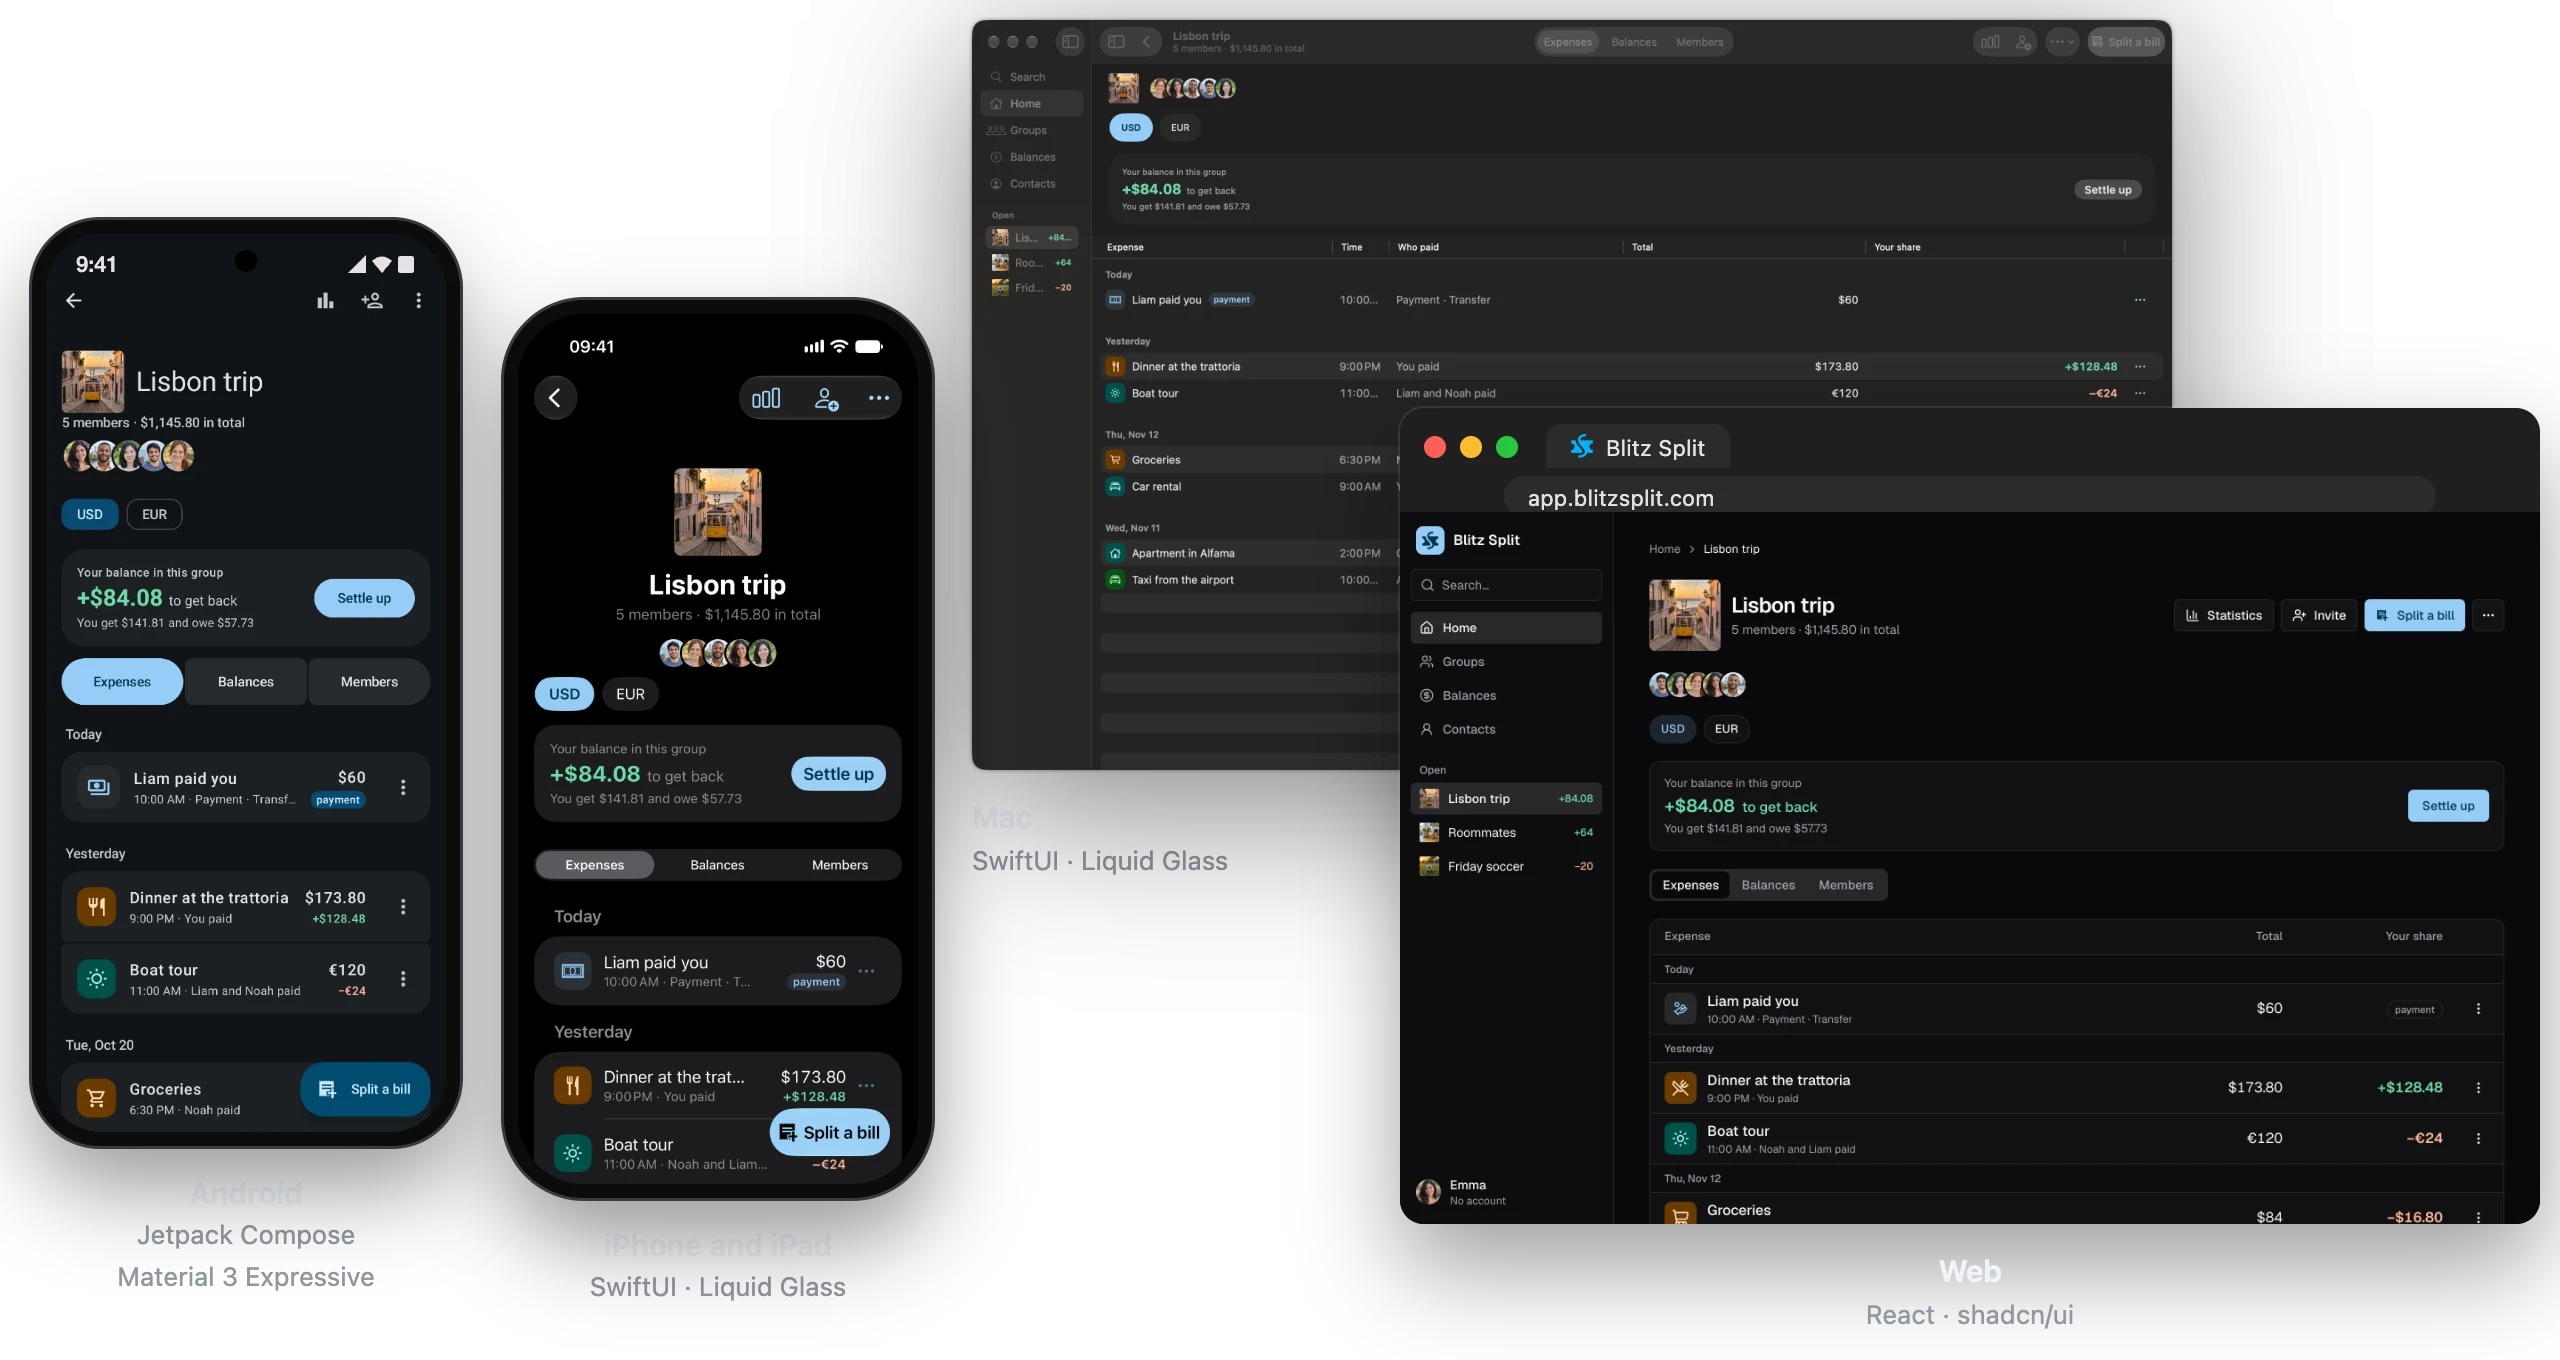
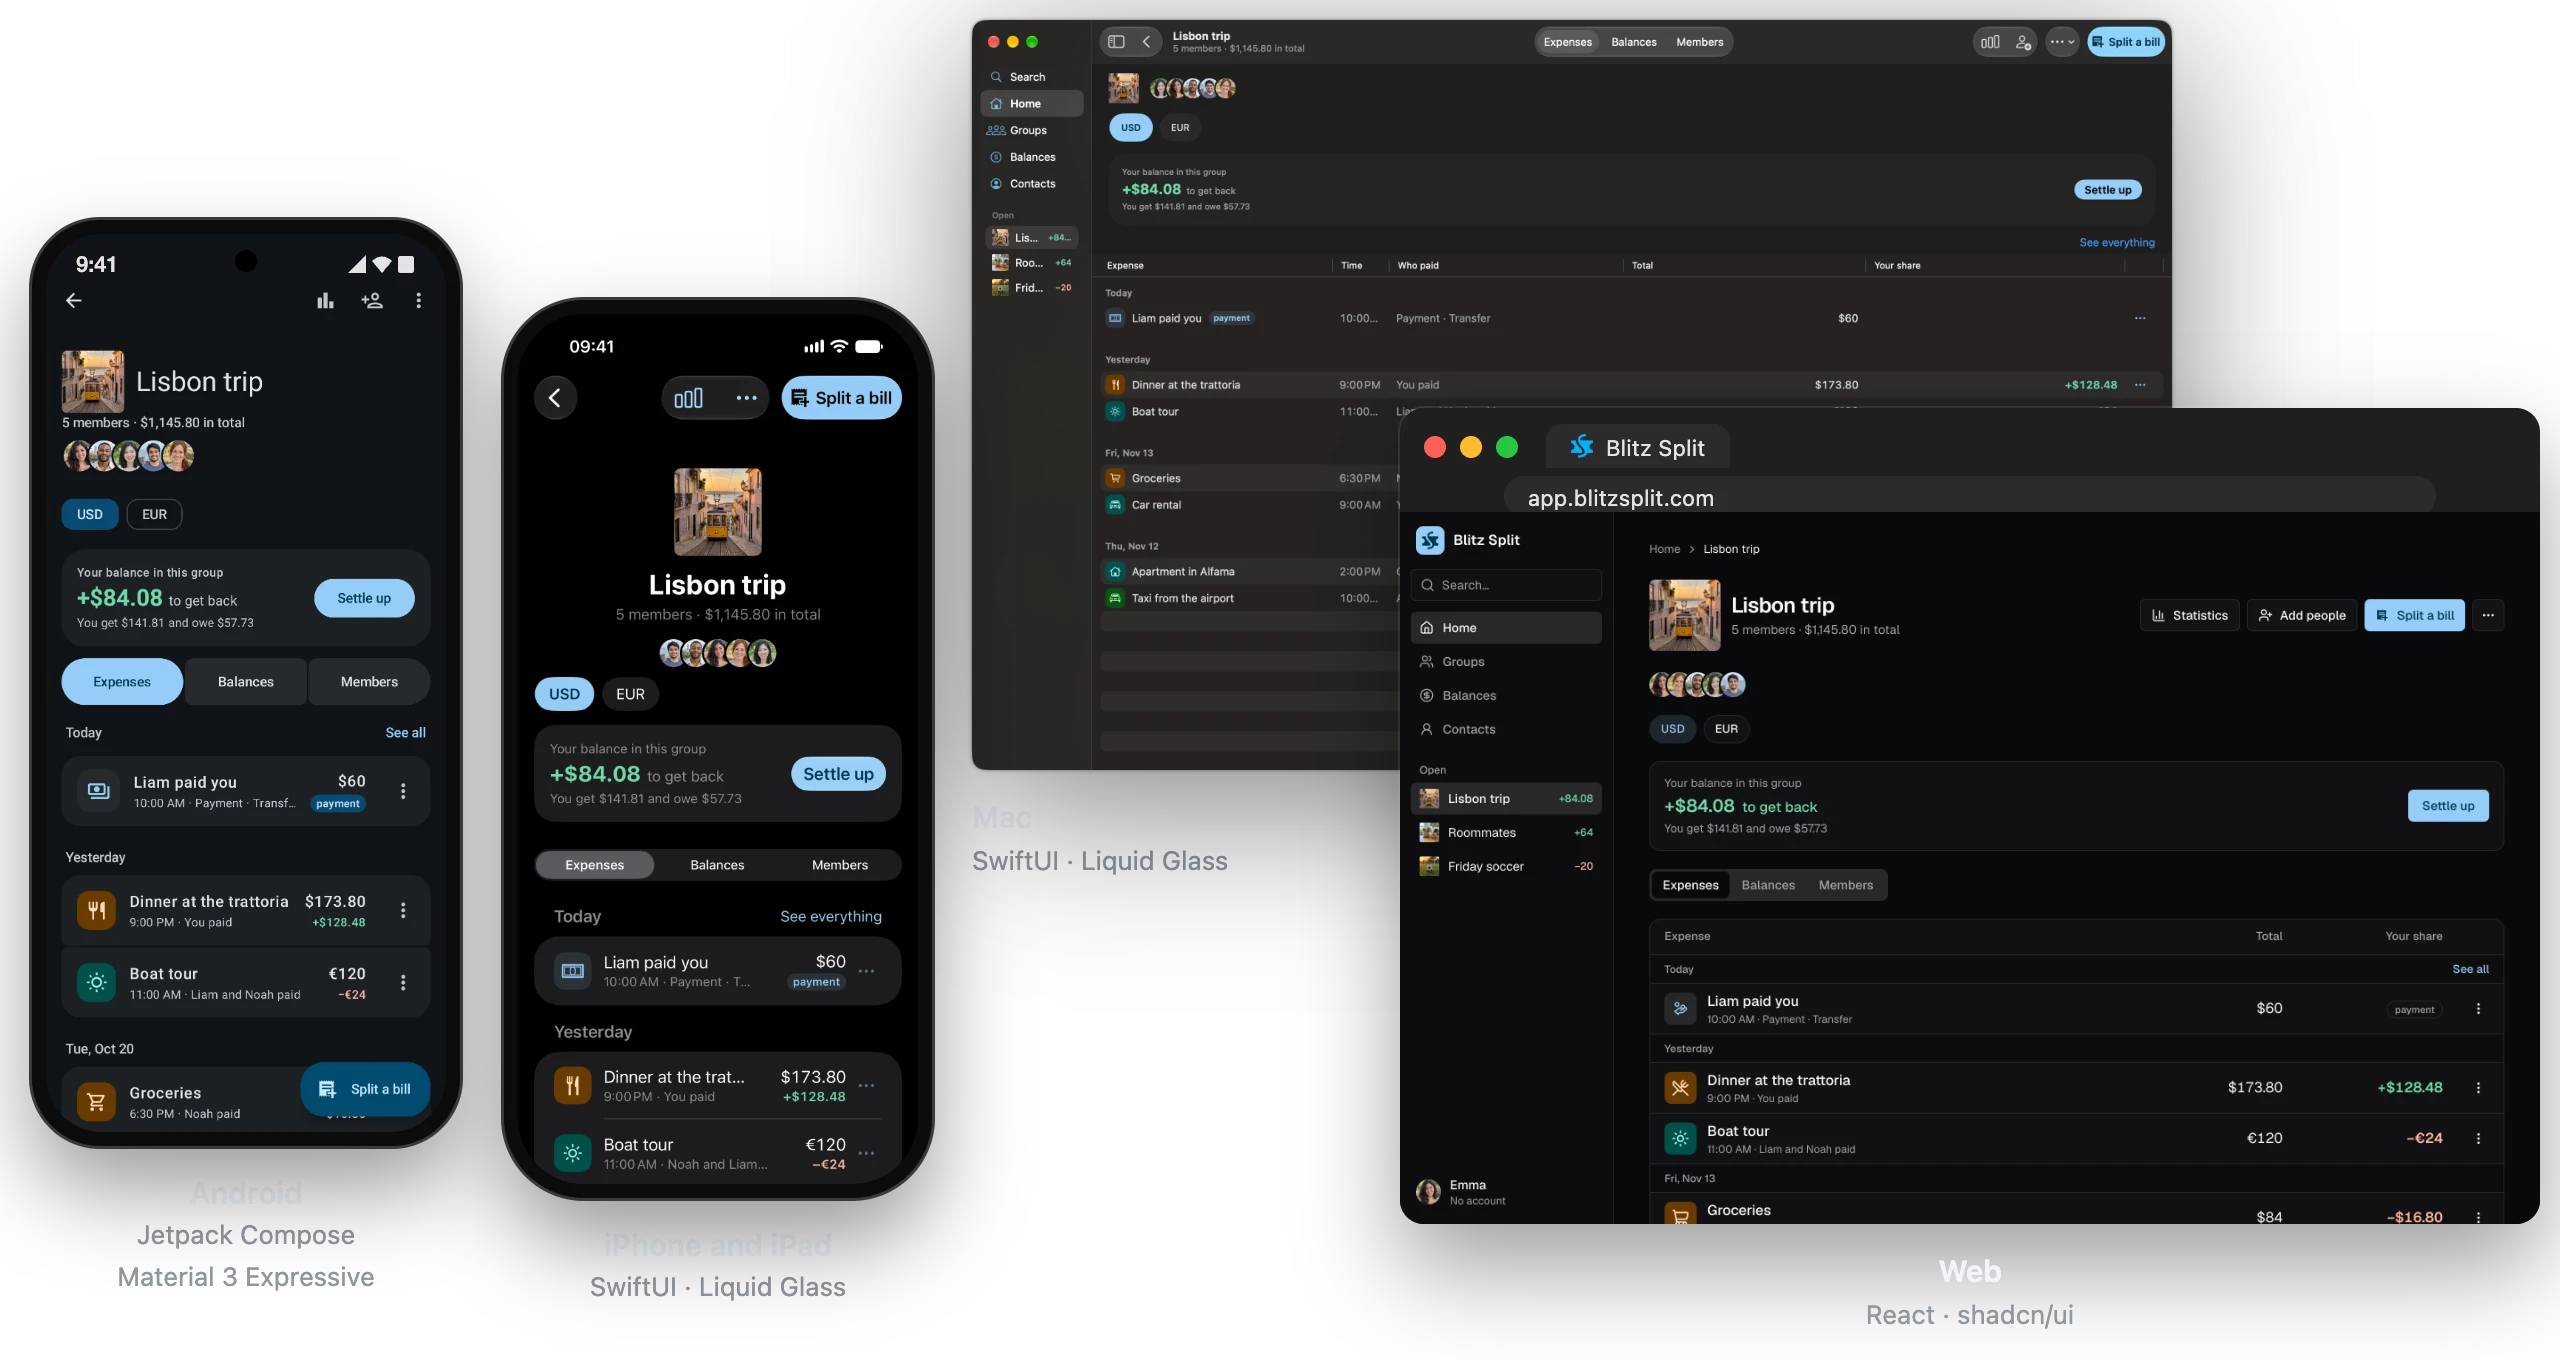
chore: refresh the README's image and open it full size on a click
The image still showed the app of #401: since then the iPhone's group moved Split a bill into
its top bar (#407), the group's Expenses gained See all (#427) and the web's Invite became
Add people (#407). Captured again from all four apps, dark and light.

The image now links to its full-size file, with light and dark links under it, so it can be
zoomed without opening it in another tab.

diff --git a/README.md b/README.md
@@ -1,9 +1,11 @@
 # Blitz Split
 
-<picture>
+<a href="docs/images/readme-hero-light.webp"><picture>
   <source media="(prefers-color-scheme: dark)" srcset="docs/images/readme-hero-dark.webp">
   <img alt="The same group, Lisbon trip, on an Android phone, an iPhone, the Mac app and the web app, each drawn by its own native UI" src="docs/images/readme-hero-light.webp">
-</picture>
+</picture></a>
+
+<sub>Open it full size: [light](docs/images/readme-hero-light.webp) · [dark](docs/images/readme-hero-dark.webp)</sub>
 
 Split bills with friends, even offline. [Blitz Split](https://blitzsplit.com) (**Bora Rachar** in Portuguese) keeps
 every group, bill and payment on your device first and syncs when the internet is back. An account is optional.
